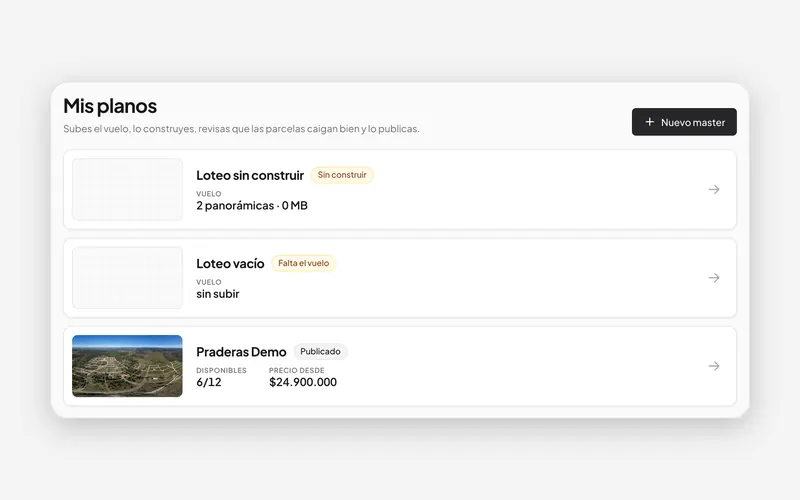
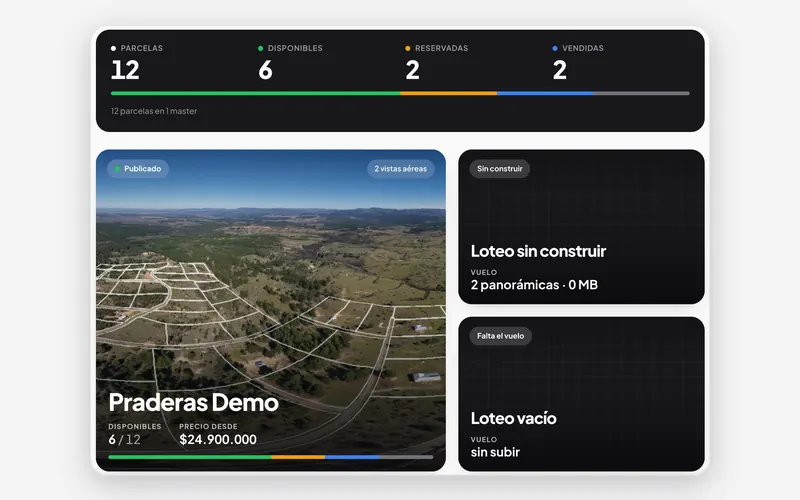
feat: los pasos y las capturas de la landing con los diseños nuevos de la consola y del visor
«Revisas y publicamos» muestra el detalle del loteo rediseñado (portada,
cifras y calce con el sol) y «Publicas» muestra Mis 360°. Las capturas
salen de la QA local con la consola de main y las fotos reales de
Praderas. La captura de escritorio y la del iPhone pasan al visor con
islas flotantes, como el sitio en vivo.

diff --git a/landing/index.html b/landing/index.html
@@ -730,7 +730,7 @@ h1 {
         </li>
         <li class="paso">
           <img src="/paso-revision.webp" width="800" height="500" loading="lazy" decoding="async"
-               alt="La consola con el loteo armado: las parcelas dibujadas sobre la foto aérea.">
+               alt="El detalle del loteo en la consola: la portada con las parcelas sobre la foto aérea, las cifras y el calce con el sol.">
           <div class="paso__texto"><b>Revisas y publicamos</b><span>Lo armamos en tu cuenta y lo ves antes de que salga al aire. Sale con su enlace, listo para mandar.</span></div>
         </li>
       </ol>
@@ -751,7 +751,7 @@ h1 {
         </li>
         <li class="paso">
           <img src="/paso-publicado.webp" width="800" height="500" loading="lazy" decoding="async"
-               alt="Mis planos en la consola, con el loteo publicado y sus parcelas disponibles.">
+               alt="Mis 360° en la consola: el resumen de parcelas y el loteo publicado con sus disponibles.">
           <div class="paso__texto"><b>Publicas</b><span>Cuando estés conforme. Si cambian los precios, subes la planilla y vuelves a publicar sin procesar las fotos; conectado a Cierra, se actualiza solo.</span></div>
         </li>
       </ol>
